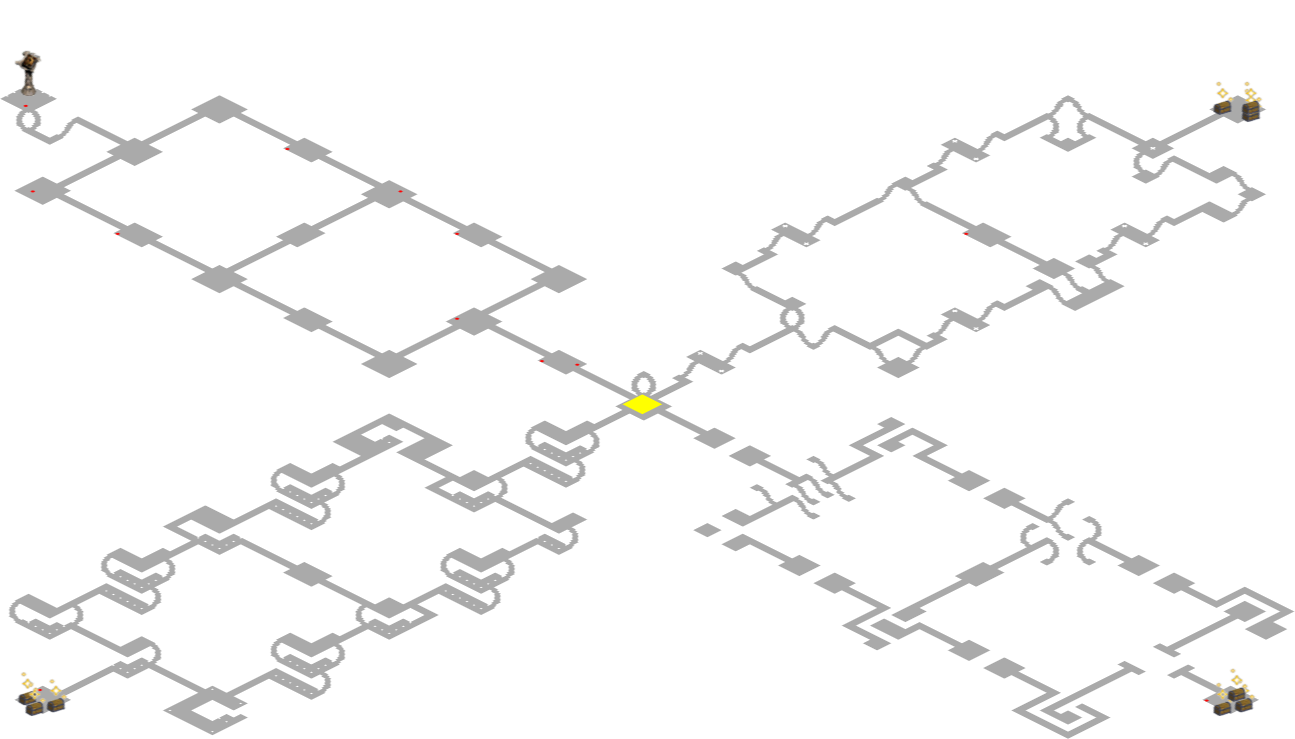
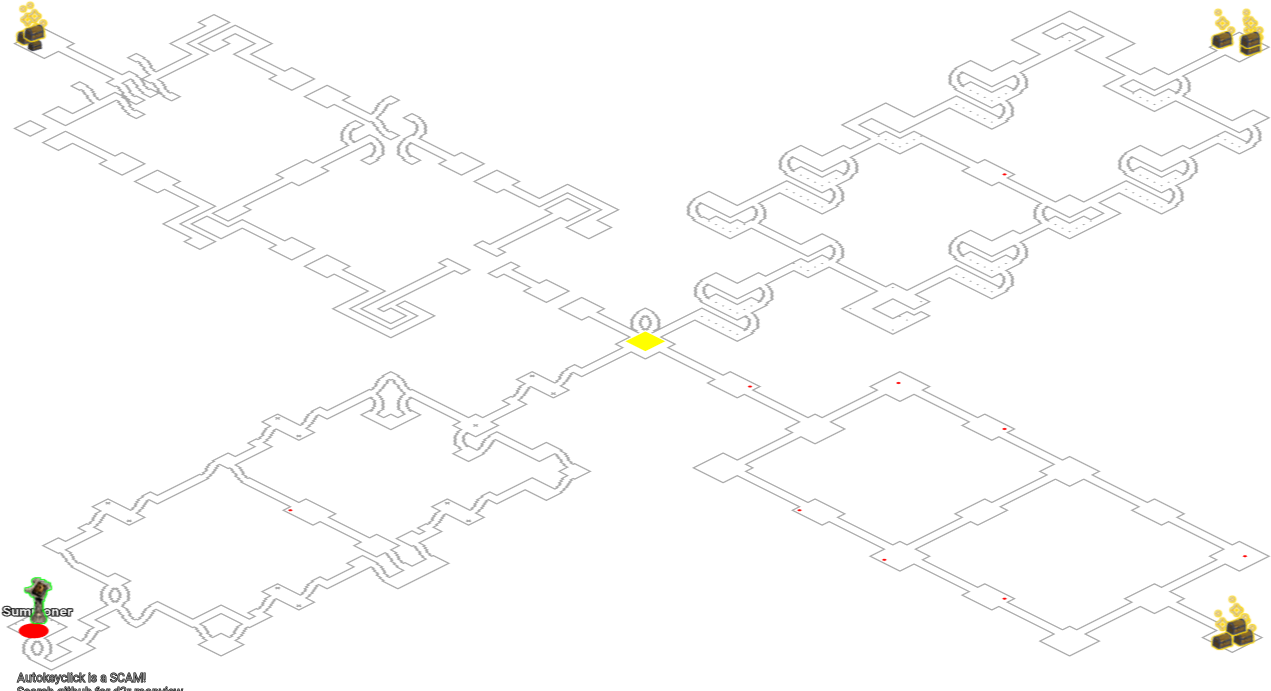
updated readme

diff --git a/README.md b/README.md
@@ -4,10 +4,9 @@ Noob friendly FREE map reveal tool for Diablo 2 Resurrected.
 Use at your own risk, there is no warranty or responsibility taken for being penalised for using this.
 
 This map hack is as simple as running an executable. It relies on a backend server that is offered for free but runs on donations.  
+The backend does _not_ use d2mapapi, but instead uses a modified version of this project [blacha/diablo2](https://github.com/blacha/diablo2/tree/master/packages/map).
 
 This tool is licenced under GPLv3.
-
-The backend map server relies on this project [blacha/diablo2](https://github.com/blacha/diablo2/tree/master/packages/map). This tool uses a modified version of that executable to generate map data.
 
 Join the discord server <https://discord.gg/qEgqyVW3uj>
 
@@ -32,8 +31,9 @@ https://www.youtube.com/watch?v=-tezpjrZwEI
 3. Run `d2rmap.exe` while in menus or in game.
 4. You show see a 'Loading map data' message on the top left of the screen, this initial loading may take 10-15 seconds.
 5. Make sure you press TAB to show the minimap, this map will only display when your minmap is displayed.
+6. Press Ctrl+H in game for a help menu
 
-The executable does not require administrator unless you are running the game as administrator
+The executable does not require administrator privileges unless you are running the game as administrator
 
 ### Virustotal gave me an alert
 
@@ -55,15 +55,26 @@ This server is getting hammered lately so it would be appreciated if you support
 
 ### Features
 
-- Live player position on map
-- Live monster position on map
-- Other player positions on map
-- Unique/champion monsters marked specially
-- Immunities of monsters highlighted
-- Super chests specially marked (LK chests)
-- All quest items, doors, waypoints marked
-- Line drawn from your player position to the next level/waypoint
-- Highly configurable
+- The map will show positions of:
+    - Players
+    - Monsters as a white dot
+    - Unique/champion/superunique monsters as a larger gold dot
+    - Monster immunities
+    - Unique items on ground (flashing alert)
+    - Set items on ground (flashing alert)
+    - High runes on ground (Lem and above) (flashing alert)
+    - Super chests marked (Lower Kurast chests)
+    - Shrines and their type
+    - Portals
+    - All doors, waypoints marked
+    - A purple line drawn to the next level exit
+    - A yellow line drawn to the waypoint
+    - A red line drawn to the nearest boss (Nihlithak, summoner etc)
+    - All quest items, marked in green (Stones, Hellforge, Altars etc)
+- Highly configurable, size, color, position, opacity etc
+- Can change map size and position with key shortcuts while in game
+- Shows last game name and game time while in menu
+![Last Game Name](prevgame.png)
 
 If you want D2R server IP to show, look at my extra standalone tool for that <https://github.com/joffreybesos/DcloneIPview>
 
@@ -95,39 +106,62 @@ In `settings.ini` you should see some options to make configuration changes.
 
 | Setting |     Default     |    Description    |
 | :-------------- | :------------------ | :---------------------- |
-| baseUrl | http://localhost:3002 | URL of the map server, set to public server by default, but you can use localhost if you [run your own server](SERVER.md) |
-| scale | 1.0 | The global scale setting applied to all map images, press NumpadPlus and NumpadSubtract to adjust in game|
+| baseUrl | http://localhost:3002 | URL of the map server, set to public server by default, but you can use localhost if you [run your own server](SERVER.md)  |
+| scale | 1 | The global scale setting applied to all map images, press NumpadPlus and NumpadSubtract to adjust in game |
 | leftMargin | 20 | The left margin of all map images, set this to wider than your primary monitor to push it onto your secondary monitor. |
 | topMargin | 20 | Top margin of map image |
-| opacity | 0.5 | How transparent the map image should be, between 0 and 1 |
+| opacity | 0.6 | How transparent the map image should be, between 0 and 1 |
 | alwaysShowMap | false | This setting will force the map to always show, ignoring the TAB key |
 | hideTown | false | This will hide town maps so they will never show |
+| edges | true | This makes map images appear as walls instead of walkable area |
+| wallThickness | 1.2 | Thickness of walls in when `edges` is turned on |
+| showGameInfo | true | Shows previous game name and game time in menus |
 | showNormalMobs | true | Set to false to hide normal non-unique monsters on the map |
 | showUniqueMobs | true | Set to false to hide unique monsters on the map |
 | showBosses | true | Show bosses with a red dot, such as Diablo, Summoner etc |
 | showDeadMobs | true | Show dead mobs as a black square (useful to know which areas are clear) |
-| normalMobColor | FFFFFF | Colour of the dot of normal monsters |
+| showImmunities | true | Show immunties of normal and unique monsters |
+| showOtherPlayers | true | Show other players as squares |
+| showItems | true | Show items on ground (unique, set, runes) |
+| showShrines | true | Show shrines |
+| showPortals | true | Show portals including red portals |
+| normalMobColor | FFFFF | Colour of the dot of normal monsters |
 | uniqueMobColor | D4AF37 | Colour of the dot of unique monsters |
 | bossColor | FF0000 | Colour of boss dots on the map |
-| showImmunuties | true | Show immunties of normal and unique monsters |
+| deadColor | 000000 | Color of dead mobs on the map |
+| physicalImmuneColor | CD853f | How physical immunity will display |
+| magicImmuneColor | ff8800 | How magic immunity will display |
+| fireImmuneColor | FF0000 | How fire immunity will display |
+| lightImmuneColor | FFFF00 | How lightning immunity will display |
+| coldImmuneColor | 0000FF | How coldimmunity will display |
+| poisonImmuneColor | 32CD32 | How poison immunity will display |
+| runeItemColor | FFa700 | Rune alert colour when a rune is on the ground |
+| uniqueItemColor | BBA45B | Unique alert color when a unique is on the ground |
+| setItemColor | 00FC00 | Set item alert colour when a set item is on the ground |
+| portalColor | 00AAFF | Town portal color |
+| redPortalColor | FF0000 | Red portal color (cow level) |
+| shrineColor | FFD700 | Shrine and shrine type text colour |
+| shrineTextSize | 14 | Shrine text size |
 | showWaypointLine | false | Draws a yellow line to the nearest waypoint, turned off by default |
 | showNextExitLine | true | Draws a purple line to the next relevant exit |
 | showBossLine | true | Draws a red line to the boss in that level (Nihlithak, Summoner etc) |
 | increaseMapSizeKey | NumpadAdd | Key to increase the size of the map |
 | decreaseMapSizeKey | NumpadSub | Key to decrease the size of the map |
 | alwaysShowKey | NumpadMult | Key to toggle `alwaysShowMap` setting |
-| playerOffset | 0x20AF660 | The static memory offset, when a new D2R client is released this will need to be updated |
-| uiOffset | 0x20BF322 | The offset used to determine whether your minimap is open or not |
-| readInterval |  10| How long to sleep between memory reads. Increase this if you are having performance problems |
+| moveMapLeft | #Left | Shortcut to move map left (Win + left) |
+| moveMapRight | #Right | Shortcut to move map right (Win + Right) |
+| moveMapUp | #Up | Shortcut to move map up (Win + Up) |
+| moveMapDown | #Down | Shortcut to move map down (Win + Down) |
+| performanceMode | 0 | Experimental, set to -1 to max out performance. This may use too much CPU and cause strange behaviour. Please report any issues in Discord as I wish to make this permanent |
 | enableD2ML | false | Only enable if you use multiple D2R sessions, not tested well |
-| windowTitle | D2R:main | this is ignored unless `enableD2ML` is turned on. It is the window title of one D2R session for multi sesion |
-| debug| false | Turn this one to increase the level of the logging, note this will create huge `log.txt` files |
+| windowTitle | D2R:main | This is ignored unless `enableD2ML` is turned on. It is the window title of one D2R session for multi sesion |
+| debug | false | Turn this one to increase the level of the logging, note this will create huge log.txt files |
 
 ## Map Server
 
 ### Use the hosted free map server
 
-I offer a free to use map server on the internet, but it may be slow and occasionally go down.  
+I offer a free to use map server on the internet.  
 If you use this server please consider donating to help with server costs.  
 
 Bitcoin donation `18hSn32hChp1CmBYnRdQFyzkz5drpijRa2`  
@@ -149,7 +183,7 @@ No one can say for sure. Blizzard do have Warden anti-cheat that will scan your 
 - A log file `log.txt` is generated in the same folder as the executable.
 - You can also set debug logging to `true` in `settings.ini` for verbose logging.
 - Go to the discord server if you need further help <https://discord.gg/qEgqyVW3uj>
-- Tested and working on Diablo 2 Resurrected `1.0.67005`
+- Tested and working on Diablo 2 Resurrected `1.0.67358`
 
 **Warning: The keyboard and/or mouse hook could not be activated; some parts of the script will not function**:
 This happens with certain antivirus where it will block hotkeys, you may need to 'allow' the script for hotkeys to work.
@@ -172,11 +206,6 @@ Violations of the licence may make you liable for DMCA takedowns.
 
 ## TODO
 
-- Super uniques
-- Immunities
-- Map image scale on a per map basis
-- Shrine types
-- Moving arrows on screen edge showing direction to lower level/waypoint
-- Map replaces automap
+- Map replaces automap (centered in screen and follows player)
 
 If you have ideas for more features, feel free to share them on discord
